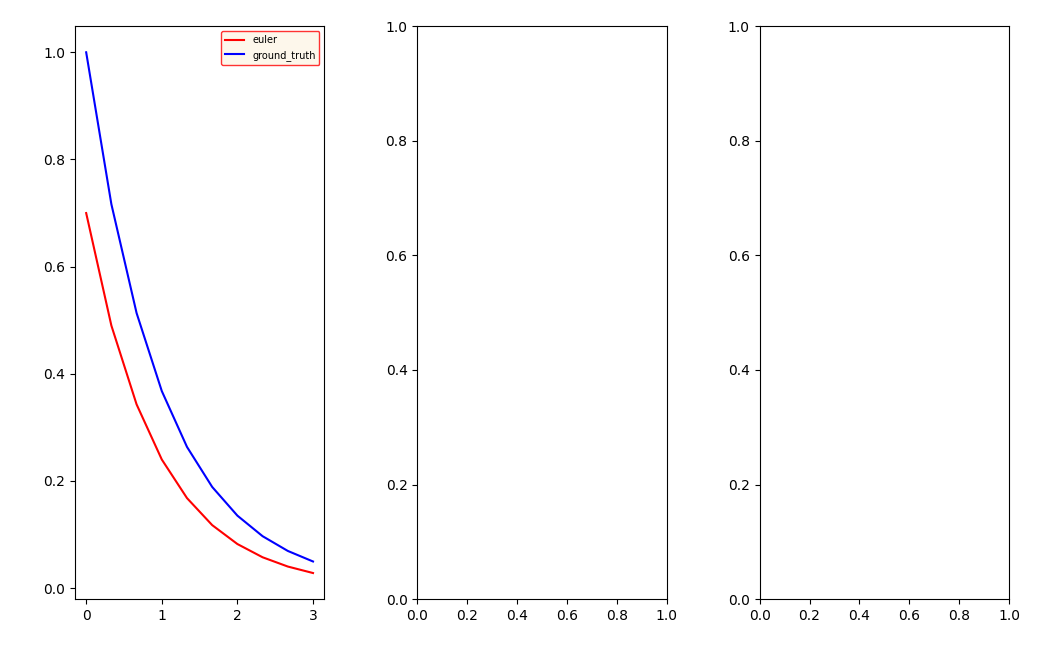
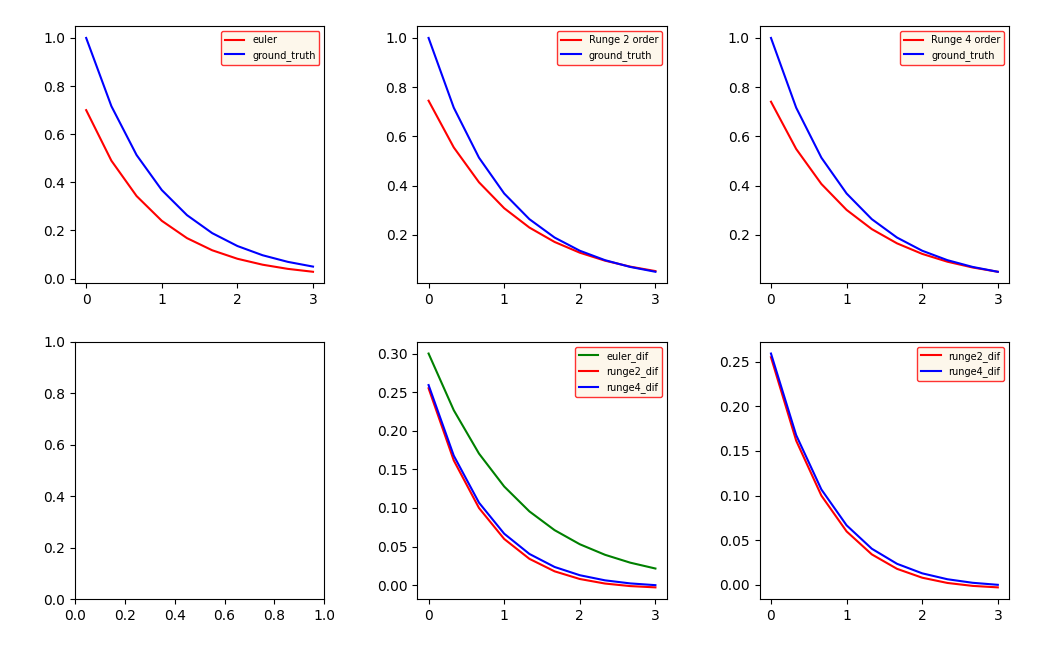
implemented a Runge_Kutta fourth order and drawed graphs

diff --git a/task6.py b/task6.py
@@ -14,11 +14,10 @@ import matplotlib.pyplot as plt
 
 mint, maxt = 0, 3
 x0, t0 = 1, 0
-N = 10
 
 
 def difur(x: float) -> float:
-    res = -x
+    res = -1. * x
     return res
 
 
@@ -38,7 +37,7 @@ def euler(M:int):
     return x
 
 
-def runge_kutta_2order(M: int) -> list:
+def runge_kutta_2order(M: int):
     """
     alpha = 3/4 - optimum
     alpha = 1/2 - corrected Euler
@@ -59,42 +58,89 @@ def runge_kutta_2order(M: int) -> list:
 
 
 
-def runge_kutta_4order():
-    pass
+def runge_kutta_4order(M:int):
+    """
+    y_n+1 = y_n + h/6 * [k1 + 2*k2 + 2*k3 + k4]
+    k1 = f(x_n, y_n)
+    k2 = f(x_n + h/2, y_n + h/2 * k1)
+    k3 = f(x_n + h/2, y_n + h/2 * k3)
+    k4 = f(x_n + h, y_n + h * k3)
+    :param M:
+    :return:
+    """
+
+    h = (np.float64(maxt) - np.float64(mint))/np.float64(M)
+    x = [x0]
+
+    for i in range(M):
+        k1 = difur(x[i])
+        k2 = difur(x[i] + h * k1 / 2.)
+        k3 = difur(x[i] + h * k2 / 2.)
+        k4 = difur(x[i] + h * k3)
+        x.append(x[i] + (k1 + 2. * k2 + 2. * k3 + k4) * h / 6.)
+
+    return x
+
+
+def one_shot_errors(num, errors_euler, errors_runge2, errors_runge4):
+    plt.plot(num, errors_euler, label='euler_error', color='red')
+    plt.plot(num, errors_runge2, label='runge2_error', color='blue')
+    plt.plot(num, errors_runge4, label='runge4_error', color='green')
+
+    plt.legend(fontsize=7, ncol=1, facecolor='oldlace', edgecolor='r')
+    plt.savefig('task6_one_shot_errors.png')
 
 
 def error_trand():
     M = 500
-    errors = []
+    errors_euler = []
+    errors_runge2 = []
+    errors_runge4 = []
     for K in range(10, M+10, 10):
-        t = np.linspace(mint, maxt, M)
+        t = np.linspace(mint, maxt, K)
 
         gt = [func(i) for i in t]
 
         euler_sol = euler(K)
+        runge2 = runge_kutta_2order(K)
+        runge4 = runge_kutta_4order(K)
 
-        s = 0
+        euler_s = 0
+        runge2_s = 0
+        runge4_s = 0
         for i in range(len(gt)):
-            s += (gt[i] - euler_sol[i+1])/gt[i]
+            euler_s += (gt[i] - euler_sol[i+1])/gt[i]
+            runge2_s += (gt[i] - runge2[i + 1]) / gt[i]
+            runge4_s += (gt[i] - runge4[i + 1]) / gt[i]
 
-        errors.append(s/K)
+        errors_euler.append(euler_s/K)
+        errors_runge2.append(runge2_s/K)
+        errors_runge4.append(runge4_s/K)
 
     num = [K for K in range(10, M+10, 10)]
 
     fig, axs = plt.subplots(nrows=1, ncols=3)
     plt.tight_layout(pad=1, h_pad=1, w_pad=1)
-    axs[0].plot(num, errors, label='euler_error', color='blue')
+    axs[0].plot(num, errors_euler, label='euler_error', color='blue')
+    axs[1].plot(num, errors_runge2, label='runge2_error', color='blue')
+    axs[2].plot(num, errors_runge4, label='runge4_error', color='blue')
 
-    axs[0].legend(fontsize=7,
-                  ncol=1,
-                  facecolor='oldlace',
-                  edgecolor='r')
+    axs[0].legend(fontsize=7, ncol=1, facecolor='oldlace', edgecolor='r')
+    axs[1].legend(fontsize=7, ncol=1, facecolor='oldlace', edgecolor='r')
+    axs[2].legend(fontsize=7, ncol=1, facecolor='oldlace', edgecolor='r')
 
     fig.set_size_inches(10.5, 6.5)
     plt.savefig('task6_errors.png')
 
+    fig.clear()
+    plt.close(fig)
+
+    return num, errors_euler, errors_runge2, errors_runge4
+
+
 
 def run():
+    N = 10
 
     t = np.linspace(mint, maxt, N)
 
@@ -109,17 +155,42 @@ def run():
     runge2 = runge_kutta_2order(N)
     runge2_dif = [gt[i] - runge2[i+1] for i in range(len(gt))]
 
+    runge4 = runge_kutta_4order(N)
+    runge4_dif = [gt[i] - runge4[i+1] for i in range(len(gt))]
+
     axs[0, 0].plot(t, euler_sol[1:], label='euler', color='red')
     axs[0, 0].plot(t, gt, label='ground_truth', color='blue')
-    axs[1, 0].plot(t, euler_dif, label='difference', color='green')
+    # axs[1, 0].plot(t, euler_dif, label='difference', color='green')
 
     axs[0, 0].legend(fontsize=7, ncol=1, facecolor='oldlace', edgecolor='r')
 
     axs[0, 1].plot(t, runge2[1:], label='Runge 2 order', color='red')
     axs[0, 1].plot(t, gt, label='ground_truth', color='blue')
-    axs[1, 1].plot(t, runge2_dif, label='difference', color='green')
 
     axs[0, 1].legend(fontsize=7, ncol=1, facecolor='oldlace', edgecolor='r')
 
+    axs[1, 1].plot(t, euler_dif, label='euler_dif', color='green')
+    axs[1, 1].plot(t, runge2_dif, label='runge2_dif', color='red')
+    axs[1, 1].plot(t, runge4_dif, label='runge4_dif', color='blue')
+
+    axs[1, 1].legend(fontsize=7, ncol=1, facecolor='oldlace', edgecolor='r')
+
+    axs[1, 2].plot(t, runge2_dif, label='runge2_dif', color='red')
+    axs[1, 2].plot(t, runge4_dif, label='runge4_dif', color='blue')
+
+    axs[1, 2].legend(fontsize=7, ncol=1, facecolor='oldlace', edgecolor='r')
+
+    axs[0, 2].plot(t, runge4[1:], label='Runge 4 order', color='red')
+    axs[0, 2].plot(t, gt, label='ground_truth', color='blue')
+    # axs[1, 2].plot(t, runge4_dif, label='difference', color='green')
+
+    axs[0, 2].legend(fontsize=7, ncol=1, facecolor='oldlace', edgecolor='r')
+
     fig.set_size_inches(10.5, 6.5)
     plt.savefig('task6.png')
+
+    fig.clear()
+    plt.close(fig)
+
+    items = error_trand()
+    one_shot_errors(items[0], items[1], items[2], items[3])
